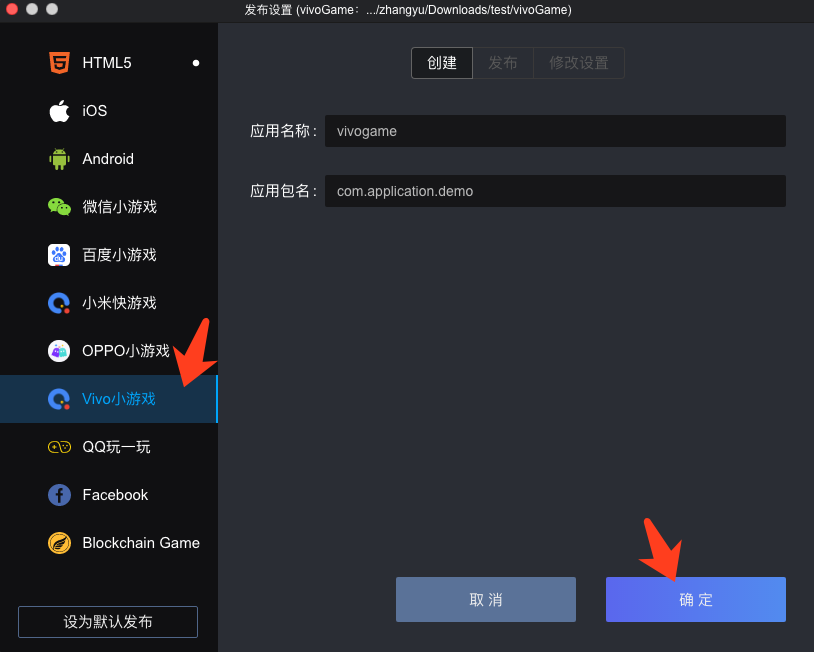
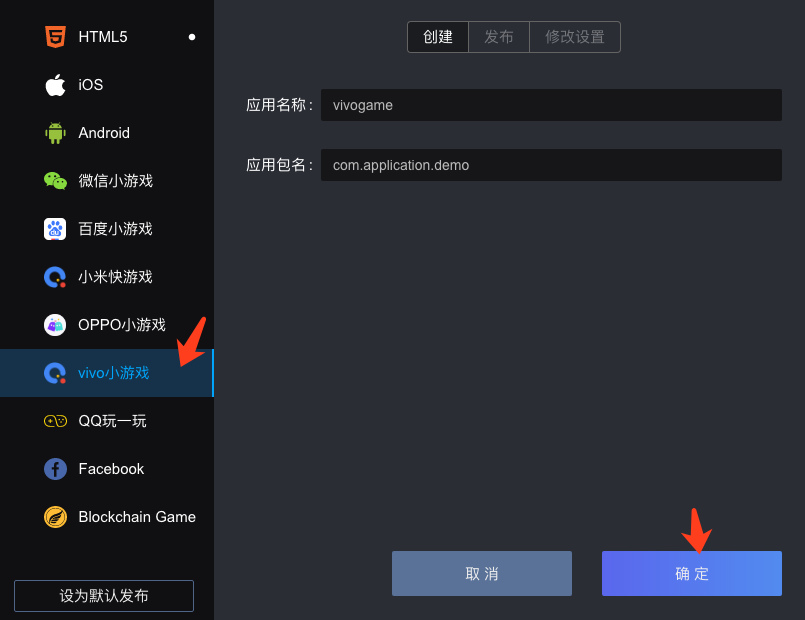
update vivo doc

diff --git a/Engine2D/minigamevivo/getStart/README.md b/Engine2D/minigamevivo/getStart/README.md
@@ -4,14 +4,15 @@
 * 白鹭引擎 5.2.22 以上版本
 * 在电脑中安装 npm：[下载地址](https://www.npmjs.com/)
 * 在电脑中安装 adb 工具：[下载地址](http://adbshell.com/downloads)
-* 在 VIVO 手机上安装快应用调试器，以及更多小游戏 API 文档，请访问小游戏支持网站：[网站地址](https://minigame.vivo.com.cn/documents/#/lesson/base/start)
+* 最新版本的 vivo 小游戏引擎(平台版本1041+)[下载地址](https://minigame.vivo.com.cn/documents/#/download/engine)
+* 更多 vivo 小游戏 API 文档，请访问小游戏支持网站：[网站地址](https://minigame.vivo.com.cn/documents/#/lesson/base/start)
 
 ### 二.创建小游戏和可视化编译打包小游戏
 
 1. 使用最新的 Egret Launcher 创建一个 Egret 游戏项目，引擎使用 5.2.22 以上版本。
 创建完成后，会在 Egret Launcher 的列表里看到该项目。点击发布设置:
 ![](p1.png)
-2. 选择 `Vivo小游戏` 标签，点击`确定`，创建项目
+2. 选择 `vivo小游戏` 标签，点击`确定`，创建项目
 ![](p2.png)
 3. 创建成功后，点击`发布`标签，可以可视化的发布小游戏包
 ![](p3.png)
@@ -21,7 +22,7 @@
 
 
 ### 三.使用命令行把白鹭游戏编译到小游戏项目
-#### 方法1：开发者可以使用命令行来编译和发布到 VIVO 小游戏项目中：
+#### 方法1：开发者可以使用命令行来编译和发布到 vivo 小游戏项目中：
 	
   * dubug 模式： ```egret build --target vivogame```
   * release 模式： ```egret publish --target vivogame```
@@ -37,9 +38,9 @@
 },
 ```
 
-如上所示，将 `egretProperties.json` 配置文件中的 `current` 属性设置为 `vivogame` 时，可以直接使用```egret build``` 或者 ```egret publish``` 命令编译和发布 VIVO 小游戏。
+如上所示，将 `egretProperties.json` 配置文件中的 `current` 属性设置为 `vivogame` 时，可以直接使用```egret build``` 或者 ```egret publish``` 命令编译和发布 vivo 小游戏。
 
-### 四.使用命令行打包发布 VIVO 小游戏
+### 四.使用命令行打包发布 vivo 小游戏
 * 进入小游戏项目，在命令行里执行编译命令 `npm run build`，成功后会生成一个`dist`文件夹，里面的 `com.application.demo.rpk` 文件就是打包好的小游戏项目，可以在手机上运行调试。
 * 如果执行命令 `npm run release`，则会生成正式发布的小游戏项目。注意，发布正式项目，需要在 `sign/release/private.pem` 路径下自己准备签名文件。
 
@@ -81,8 +82,8 @@
 
 
 ### 四.真机调试调试
-**注意：**一定要使用 VIVO 手机才可以调试 
+**注意：**一定要使用 vivo 手机才可以调试 
 
-1.在 VIVO 手机上安装 `快应用调试器`
+1.在 vivo 手机上安装 `快应用调试器`
 
 3.打开快游戏调试器，点击 `扫码安装`，扫描 EgretLauncher 发布 vivo 小游戏界面里的二维码。

diff --git a/Engine2D/minigamevivo/vivogameFAQ/README.md b/Engine2D/minigamevivo/vivogameFAQ/README.md
@@ -1,4 +1,4 @@
-首先，强调一些 VIVO 小游戏的基础技术限制：
+首先，强调一些 vivo 小游戏的基础技术限制：
 
 * 不允许操作 DOM、BOM、如果必须改成块游戏相应的 API 调用方式
 
@@ -9,9 +9,9 @@
 
 ### 问题
 
-#### 我在使用白鹭引擎 5.0 / 4.x / 3.x 版本，可以直接转换为VIVO小游戏游戏么？
+#### 我在使用白鹭引擎 5.0 / 4.x / 3.x 版本，可以直接转换为vivo小游戏游戏么？
 
-答：目前我们只支持白鹭引擎 5.2.19 以上的版本发布为VIVO小游戏。老版本的项目，[参考微信小游戏升级指南](../minigame/publish/README.md) 
+答：目前我们只支持白鹭引擎 5.2.19 以上的版本发布为vivo小游戏。老版本的项目，[参考微信小游戏升级指南](../minigame/publish/README.md) 
 
 
 #### 我在使用 egret res 库，5.2.19 创建的新项目使用的是 assetsmanager 库，这两个库有区别么？
@@ -24,13 +24,13 @@
 
 #### 当老项目（5.2.19以前）升到到最新版时，发布小游戏项目报错：
 
-答：升级成功后，请首先保证 HTML5 版本可以正常运行，然后再尝试发布为VIVO小游戏，目前我们遇到了多位开发者通过创建 5.2.19 新项目后拷贝老项目代码和素材的方式尝试升级，由于忽视了修改 egretProperties.json 中的模块配置，导致运行失败的问题。[参考微信小游戏升级指南](../minigame/publish/README.md)
+答：升级成功后，请首先保证 HTML5 版本可以正常运行，然后再尝试发布为vivo小游戏，目前我们遇到了多位开发者通过创建 5.2.19 新项目后拷贝老项目代码和素材的方式尝试升级，由于忽视了修改 egretProperties.json 中的模块配置，导致运行失败的问题。[参考微信小游戏升级指南](../minigame/publish/README.md)
 
 #### 在游戏使用到 egret.getDefinitionByName() 报错，找不到对应类时：
 
 答：需要将要反射的类挂载到 window 对象下，例如有个 class People{} 类，需要添加代码 window["People"] = People。[参考微信小游戏示例demo](http://developer.egret.com/cn/statics/downs/testglobal.zip)
 
-#### 在 EUI 中使用自定义组件，发布到VIVO小游戏的 default.thm.js 报错提示找不到自定义组件，错误如图：
+#### 在 EUI 中使用自定义组件，发布到vivo小游戏的 default.thm.js 报错提示找不到自定义组件，错误如图：
 
 ![img](x03.png)
 
